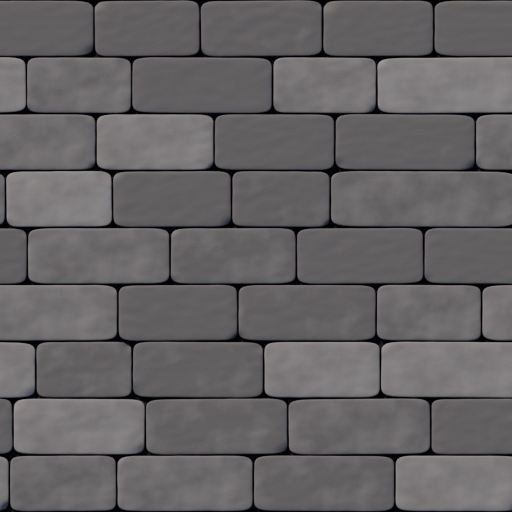
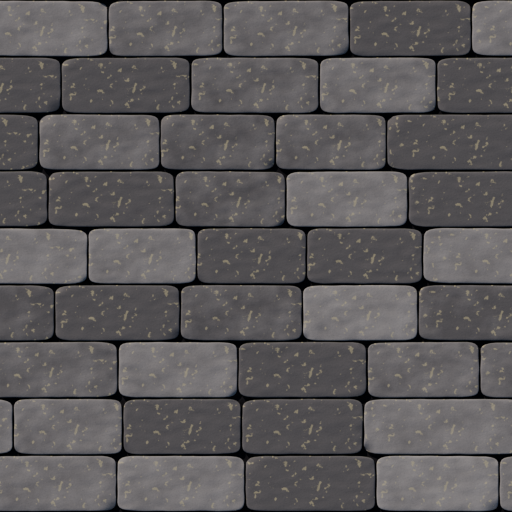
Castle map: neutral stone and valley soil textures (the game's sunset grade warms them) instead of sunset-baked orange; weathered city concrete
Claude-Session: https://claude.ai/code/session_01JvXrYdG1XCH4i3GESsQzbh

diff --git a/js/themes.js b/js/themes.js
@@ -157,7 +157,7 @@ const THEMES = {
       strata: ['#8e6a4c', '#9a7658', '#806046', '#a07c5e'], band: 38, bandSharp: 0.4,
       rock: ['#8e8478', '#7a7266', '#9c9286'],
       pebbles: ['#86796c', '#7a6e62', '#928476', '#7e7064'], smoothStones: true,
-      outline: '#23170c', veins: null, ceiling: 'roots', capMats: [1], tex: { dirt: 'dirt_castle', cave: 'cave_wall', grass: 'grass_valley' },
+      outline: '#23170c', veins: null, ceiling: 'roots', capMats: [1], tex: { dirt: 'dirt_valley', cave: 'cave_wall', grass: 'grass_valley' },
     },
     scatter: ['bush', 'rock', 'flowers', 'tuft', 'bush'],
     weather: 'leaves', birds: true, ambient: '#ffe6d0', ambientSound: 'wind', glow: true,

diff --git a/js/maps.js b/js/maps.js
@@ -131,7 +131,7 @@ function rasterizeMap(def) {
 
 /* ---------- строители сооружений ---------- */
 const PAL = {
-  castleStone: { base: '#a89684', alt: '#8a7a6c', mortar: '#2a221c', w: 28, h: 14, var: 0.13, tex: 'brick_castle' },
+  castleStone: { base: '#a89684', alt: '#8a7a6c', mortar: '#2a221c', w: 28, h: 14, var: 0.13, tex: 'brick_light', texK: 1.12 },
   sandBrick: { base: '#e2b077', alt: '#cf9a62', mortar: '#8a5a32', w: 22, h: 11, var: 0.08 },
   darkStone: { base: '#4a4040', alt: '#3c3434', mortar: '#1a1414', w: 20, h: 10, var: 0.1 },
   shipWood: { base: '#7a4a2a', gap: '#2a160a', plank: 8, var: 0.18, tex: 'wood_ship' },

diff --git a/dev/blender/make_textures.py b/dev/blender/make_textures.py
@@ -973,7 +973,7 @@ LIB = {
     'brick_light': lambda: masonry('brick_light', 22, 30, 0, (0.44, 0.42, 0.40), (0.82, 0.80, 0.75), (0.62, 0.60, 0.55), moss=0.8, moss_col=(0.33, 0.38, 0.17), jitter=1.4, hrange=(12, 20), wrange=(0.6, 1.5), depth=0.05, gap_px=2.0, tilt=0.03, detail=0.3, mortar_h=0.03),
     # замки на закате: тот же грунт и кладка при низком оранжевом солнце
     'dirt_castle': lambda: (LIGHT.update(col=(1.0, 0.60, 0.31), elev=12, energy=5.5), dirt_stones('dirt_castle', 12, (0.42, 0.29, 0.19), (0.29, 0.19, 0.125), (0.40, 0.38, 0.35), (0.62, 0.60, 0.56), density=2.0), LIGHT.update(col=(1.0, 0.85, 0.66), elev=25, energy=5.0)),
-    'brick_castle': lambda: (LIGHT.update(col=(1.0, 0.60, 0.31), elev=12, energy=5.5), masonry('brick_castle', 23, 30, 16, (0.50, 0.44, 0.38), (0.76, 0.68, 0.58), (0.24, 0.20, 0.16), moss=0.5, moss_col=(0.31, 0.35, 0.16), jitter=1.5, depth=0.05, gap_px=2.0), LIGHT.update(col=(1.0, 0.85, 0.66), elev=25, energy=5.0)),
+    'brick_castle': lambda: (LIGHT.update(col=(1.0, 0.66, 0.40), elev=14, energy=5.2), masonry('brick_castle', 23, 32, 0, (0.46, 0.42, 0.38), (0.72, 0.66, 0.58), (0.58, 0.54, 0.48), moss=0.7, moss_col=(0.33, 0.38, 0.17), jitter=1.4, hrange=(13, 21), wrange=(0.6, 1.5), depth=0.05, gap_px=2.0, tilt=0.03, detail=0.3, mortar_h=0.03), LIGHT.update(col=(1.0, 0.85, 0.66), elev=25, energy=5.0)),
     # задняя стена пещер
     'cave_wall': lambda: rock_face('cave_wall', 31, [(0.36, 0.35, 0.34), (0.42, 0.41, 0.39), (0.30, 0.29, 0.28)], layer=(30, 90), blocks=130, streak=0.2, cave=True),
     # трава долины: от тёмной у корней до жёлто-зелёной на солнце, полевые цветы
@@ -1012,7 +1012,7 @@ LIB = {
     'cap_sand': lambda: granular('cap_sand', 202, [(0.78, 0.60, 0.38), (0.88, 0.72, 0.48), (0.95, 0.82, 0.58)], amp=0.01, ripples=0.6, pebbles=0.5),
     'cap_ash': lambda: granular('cap_ash', 203, [(0.26, 0.24, 0.23), (0.36, 0.34, 0.32), (0.46, 0.43, 0.40)], amp=0.012, pebbles=0.8),
     # ---- ночной город: бетонные панели фасадов
-    'concrete_city': lambda: masonry('concrete_city', 151, 120, 58, (0.42, 0.42, 0.44), (0.62, 0.62, 0.64), (0.20, 0.20, 0.22), wrange=(0.8, 1.2), jitter=0.3, depth=0.02, gap_px=1.6),
+    'concrete_city': lambda: masonry('concrete_city', 151, 120, 58, (0.36, 0.36, 0.38), (0.60, 0.60, 0.62), (0.16, 0.16, 0.18), wrange=(0.9, 1.1), jitter=0.5, depth=0.02, gap_px=1.8, detail=0.45, moss=0.25, moss_col=(0.22, 0.24, 0.20)),
 }
 
 if __name__ == '__main__':
